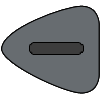
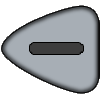
Tri ingredient, bouton clicked

diff --git a/mainwindow.cpp b/mainwindow.cpp
@@ -337,19 +337,37 @@ void MainWindow::updateHeure()
     }
 }
 
+bool MainWindow::nameLessThan(Ingredient *ing1,Ingredient *ing2)
+{
+    return ing1->getNom() < ing2->getNom();
+}
+
+bool MainWindow::dateLessThan(Ingredient *ing1,Ingredient *ing2)
+{
+    return ing1->getDate() < ing2->getDate();
+}
+
+bool MainWindow::categoryLessThan(Ingredient *ing1,Ingredient *ing2)
+{
+    return ing1->getType() < ing2->getType();
+}
+
 void MainWindow::triAlphabetique()
 {
-    //qSort(ingredients.begin(), ingredients.end(), Ingredient::nameLessThan);
+    qSort(ingredients.begin(), ingredients.end(), nameLessThan);
+    updateVignettes();
 }
 
 void MainWindow::triDatePeremption()
 {
-    //qSort(ingredients.begin(), ingredients.end(), Ingredient::dateLessThan);
+    qSort(ingredients.begin(), ingredients.end(), dateLessThan);
+    updateVignettes();
 }
 
 void MainWindow::triCategorie()
 {
-    //qSort(ingredients.begin(), ingredients.end(), Ingredient::categoryLessThan);
+    qSort(ingredients.begin(), ingredients.end(), categoryLessThan);
+    updateVignettes();
 }
 
 void MainWindow::updateVignettes()

diff --git a/ingredient.cpp b/ingredient.cpp
@@ -123,20 +123,7 @@ QString Ingredient::getTypeColorLettre() {
     return colors[type];
 }
 
-bool Ingredient::nameLessThan(Ingredient *ing1, Ingredient *ing2)
-{
-    return ing1->getNom() < ing2->getNom();
-}
 
-bool Ingredient::dateLessThan(Ingredient *ing1, Ingredient *ing2)
-{
-    return ing1->getDate() < ing2->getDate();
-}
-
-bool Ingredient::categoryLessThan(Ingredient *ing1, Ingredient *ing2)
-{
-    return ing1->getType() < ing2->getType();
-}
 
 Ingredient::~Ingredient()
 {

diff --git a/mainwindow.h b/mainwindow.h
@@ -40,6 +40,9 @@ public:
     bool supprimerVignetteIngredient(VignetteIngredient* vi);
     bool supprimerVignetteRecette(VignetteRecette * vr, bool modif);
     void reecrireFichier();
+    static bool nameLessThan(Ingredient *ing1, Ingredient *ing2);
+    static bool categoryLessThan(Ingredient *ing1, Ingredient *ing2);
+    static bool dateLessThan(Ingredient *ing1, Ingredient *ing2);
 
 private:
     Ui::MainWindow *ui;

diff --git a/ingredient.h b/ingredient.h
@@ -27,9 +27,7 @@ public:
     QString getTypeColor();
     QString getTypeColorLettre();
     QString toStringDetail();
-    bool nameLessThan(Ingredient *ing1, Ingredient *ing2);
-    bool categoryLessThan(Ingredient *ing1, Ingredient *ing2);
-    bool dateLessThan(Ingredient *ing1, Ingredient *ing2);
+
 
 private:
     double quantite;
